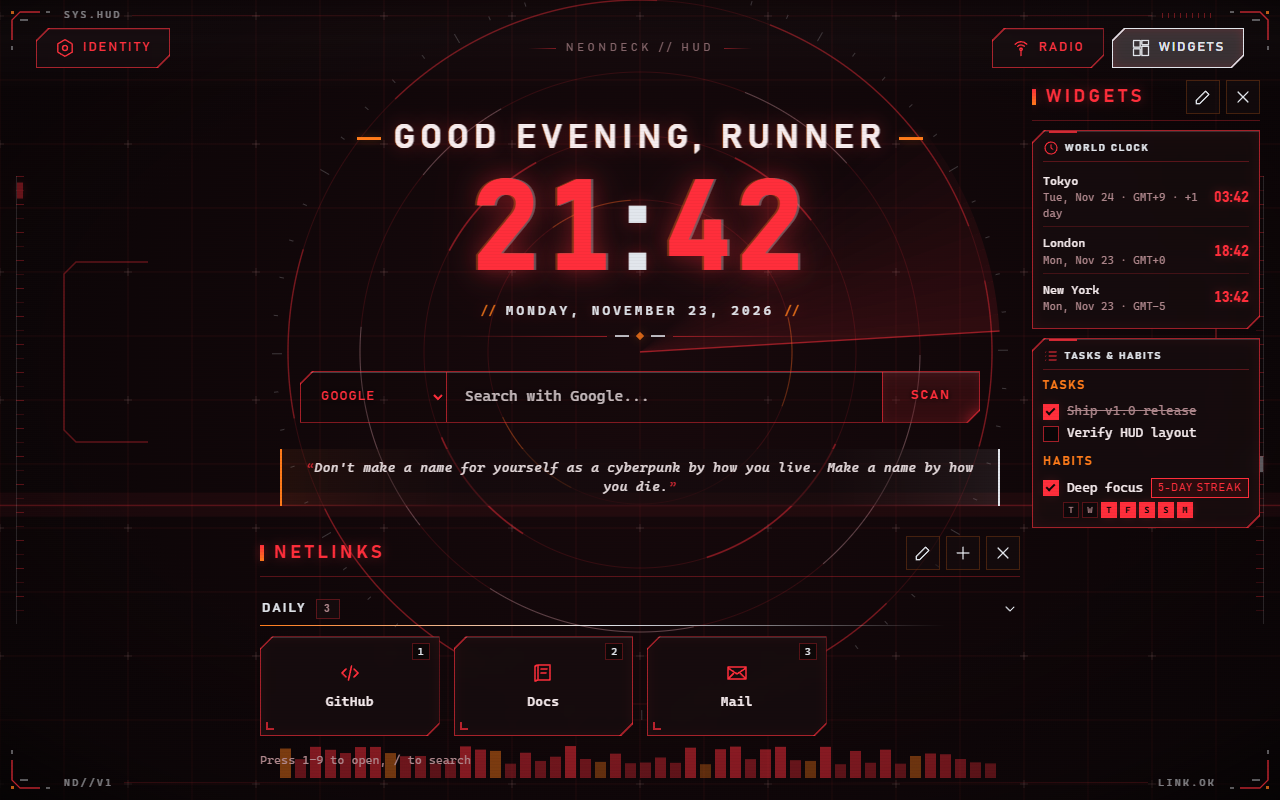
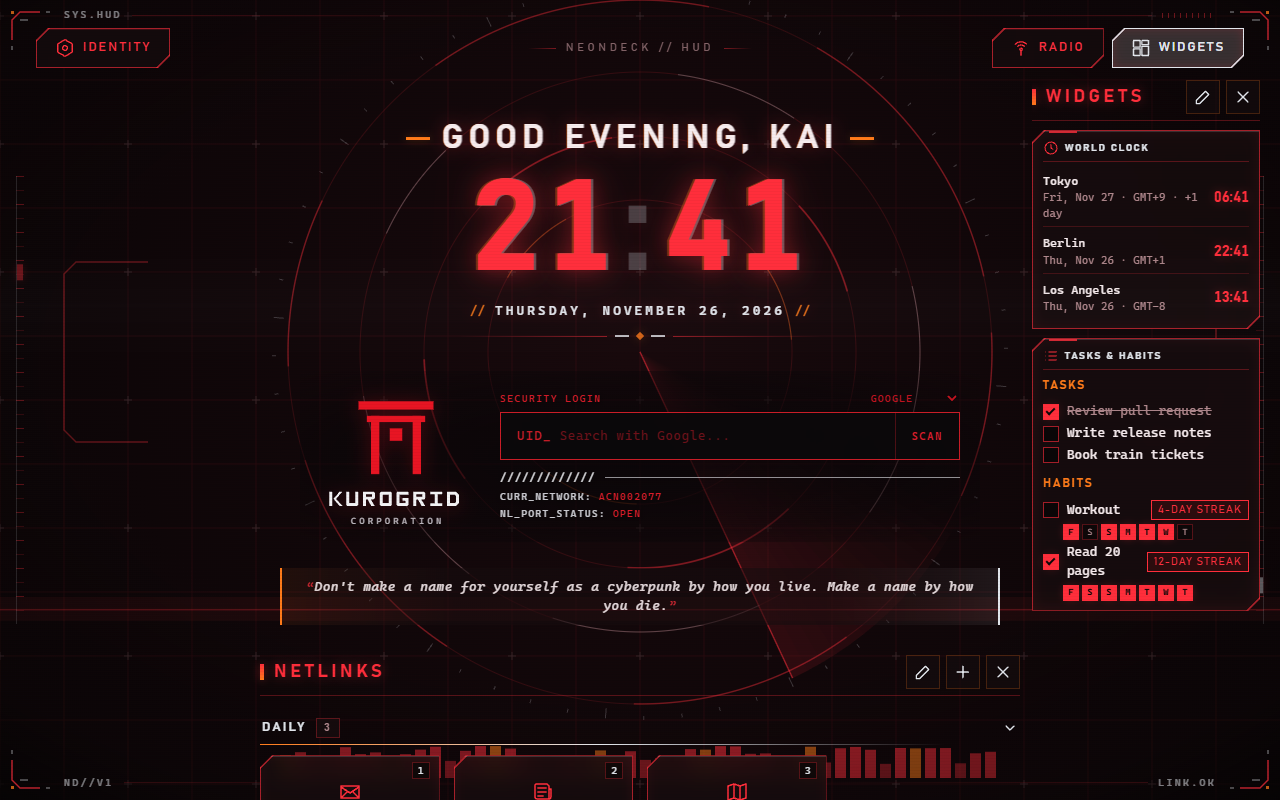
Store screenshot: Arasaka with the Security Login panel

diff --git a/README.md b/README.md
@@ -24,7 +24,7 @@ _Türkçe özet aşağıda._
 
 | | |
 |---|---|
-| ![Edgerunners theme: neon rooftop, weather and Pomodoro](docs/store/screenshots/01-edgerunners.png) | ![Arasaka theme: red radar HUD, world clock, tasks and habits](docs/store/screenshots/02-arasaka.png) |
+| ![Edgerunners theme: neon rooftop, weather and Pomodoro](docs/store/screenshots/01-edgerunners.png) | ![Arasaka theme: corporate HUD with the Security Login search panel, world clock, tasks and habits](docs/store/screenshots/02-arasaka.png) |
 | ![Samurai theme with theme music in the ambient sound widget](docs/store/screenshots/03-samurai.png) | ![Ghost theme: scratchpad and Pomodoro](docs/store/screenshots/04-ghost.png) |
 | ![Acid Orchid theme: weather and world clock](docs/store/screenshots/05-orchid.png) | ![Settings: five themes and live wallpapers](docs/store/screenshots/06-settings.png) |
 | ![Widget manager: drag and drop to reorder](docs/store/screenshots/07-widgets.png) | |

diff --git a/docs/store/amo-listing.md b/docs/store/amo-listing.md
@@ -11,7 +11,7 @@
 ## Screenshots (Edit Product Page → Images)
 `docs/store/screenshots/` (all 1280x800, captured from the dev server with English UI), in this order, with captions:
 1. `01-edgerunners.png`: Edgerunners: neon rooftop wallpaper, live weather and a Pomodoro dial
-2. `02-arasaka.png`: Arasaka: red corporate HUD with a sweeping radar, world clock, tasks and habit streaks
+2. `02-arasaka.png`: Arasaka: corporate HUD with a Security Login search panel, world clock, tasks and habit streaks
 3. `03-samurai.png`: Samurai: rain-soaked overpass at night, with a music track for every theme
 4. `04-ghost.png`: Ghost: green cyberspace with scratchpad notes and Pomodoro
 5. `05-orchid.png`: Acid Orchid: synth horizon, weather and world clock
